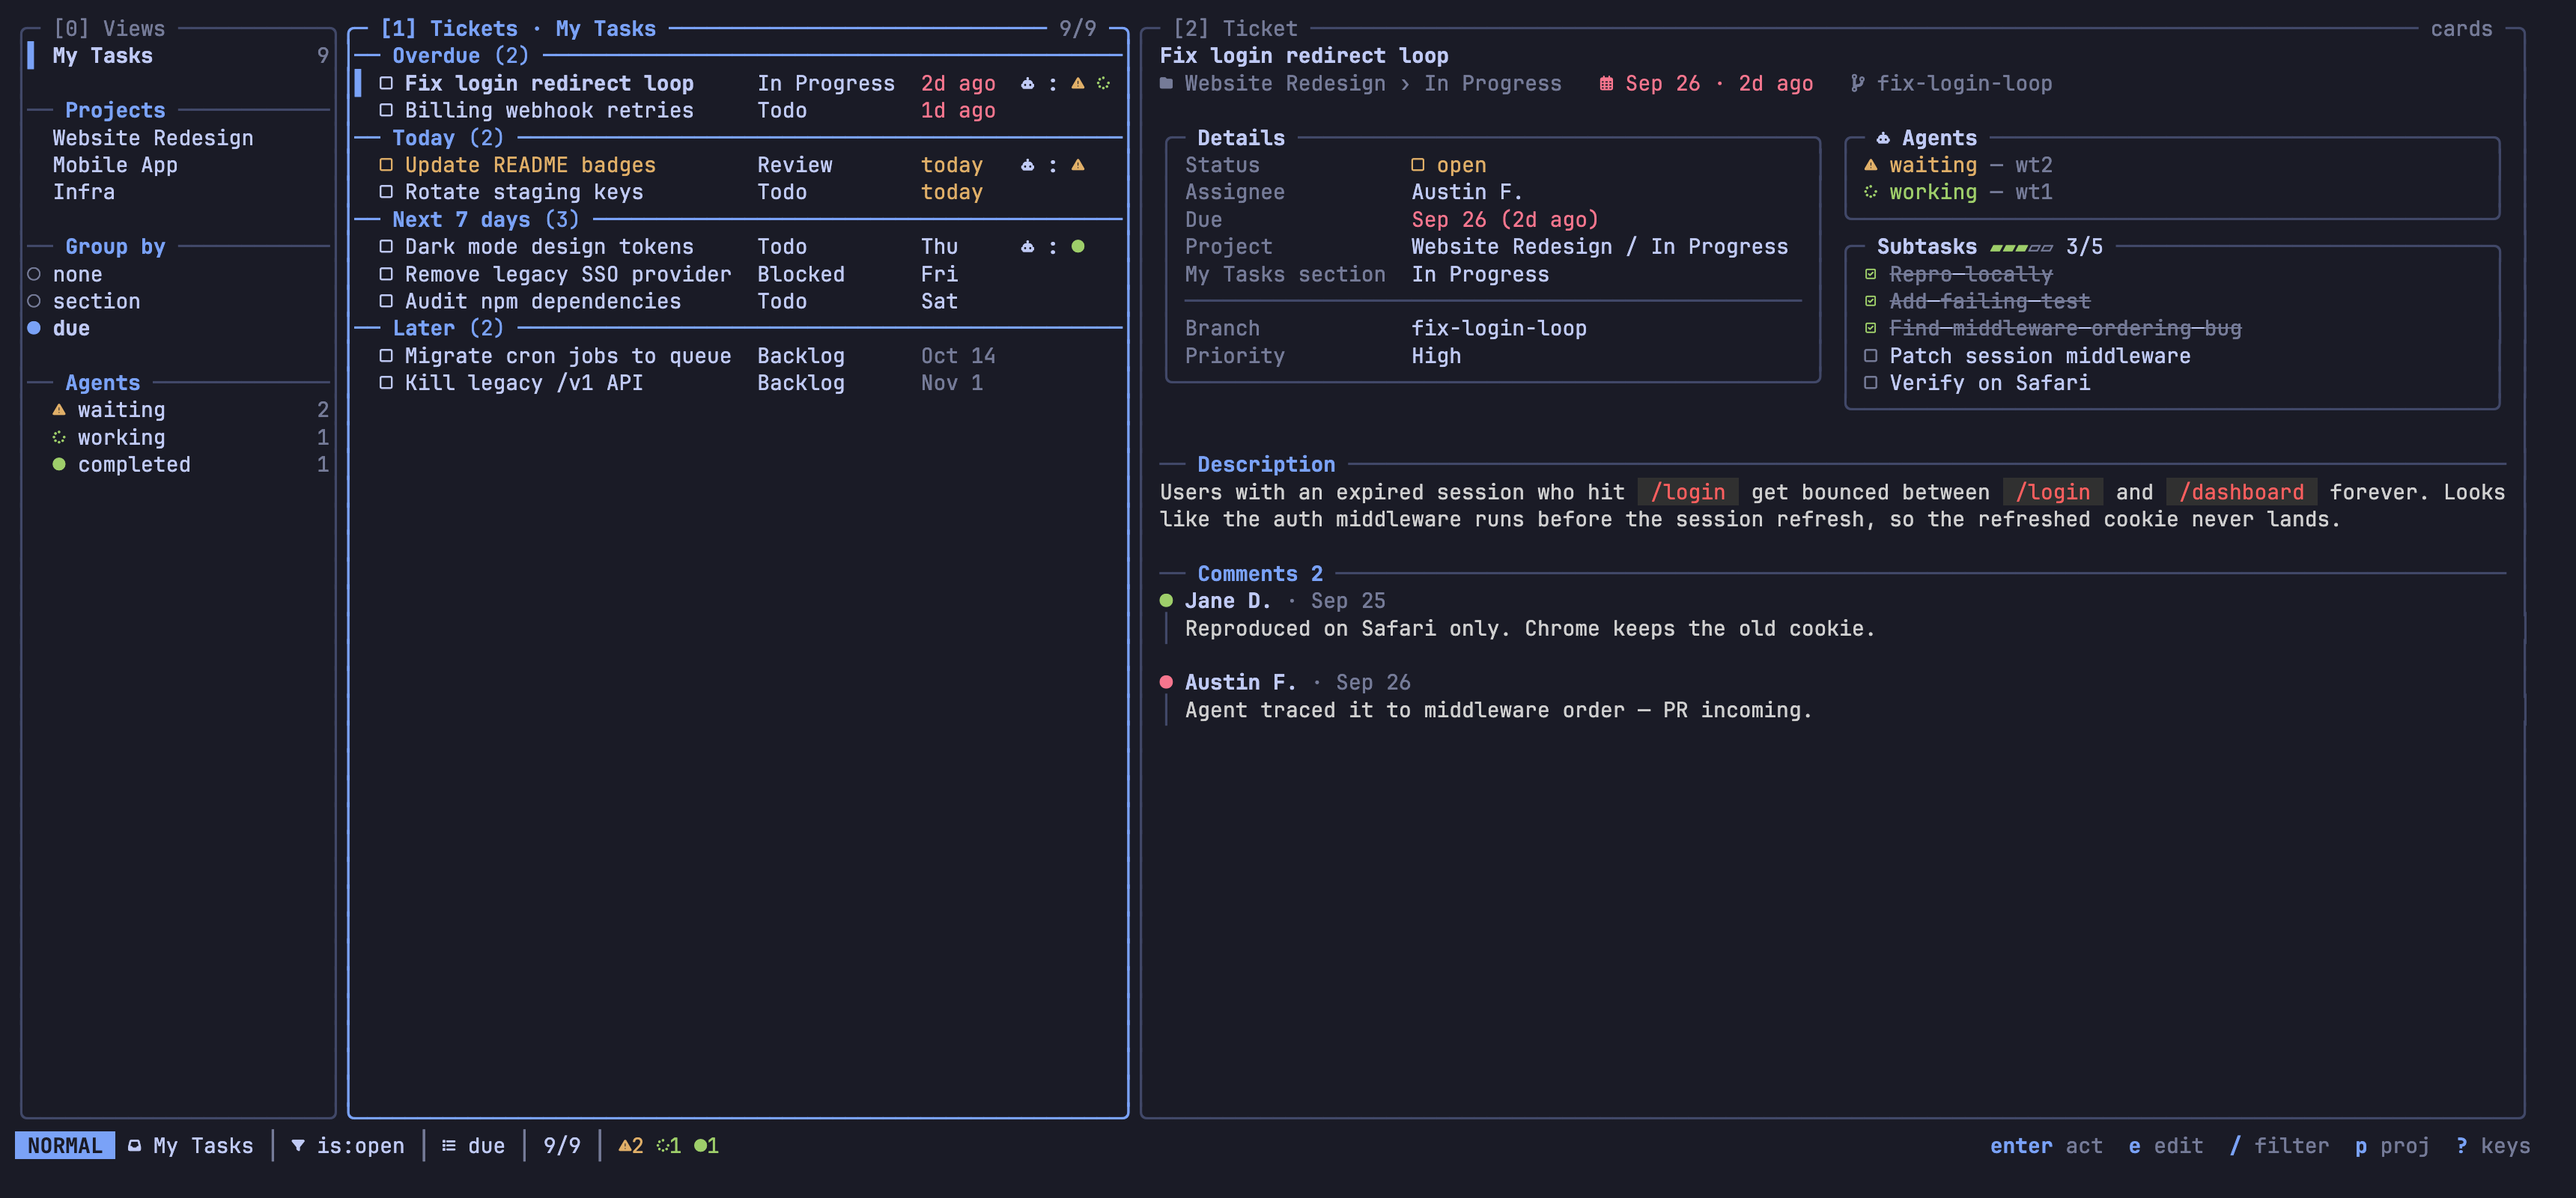
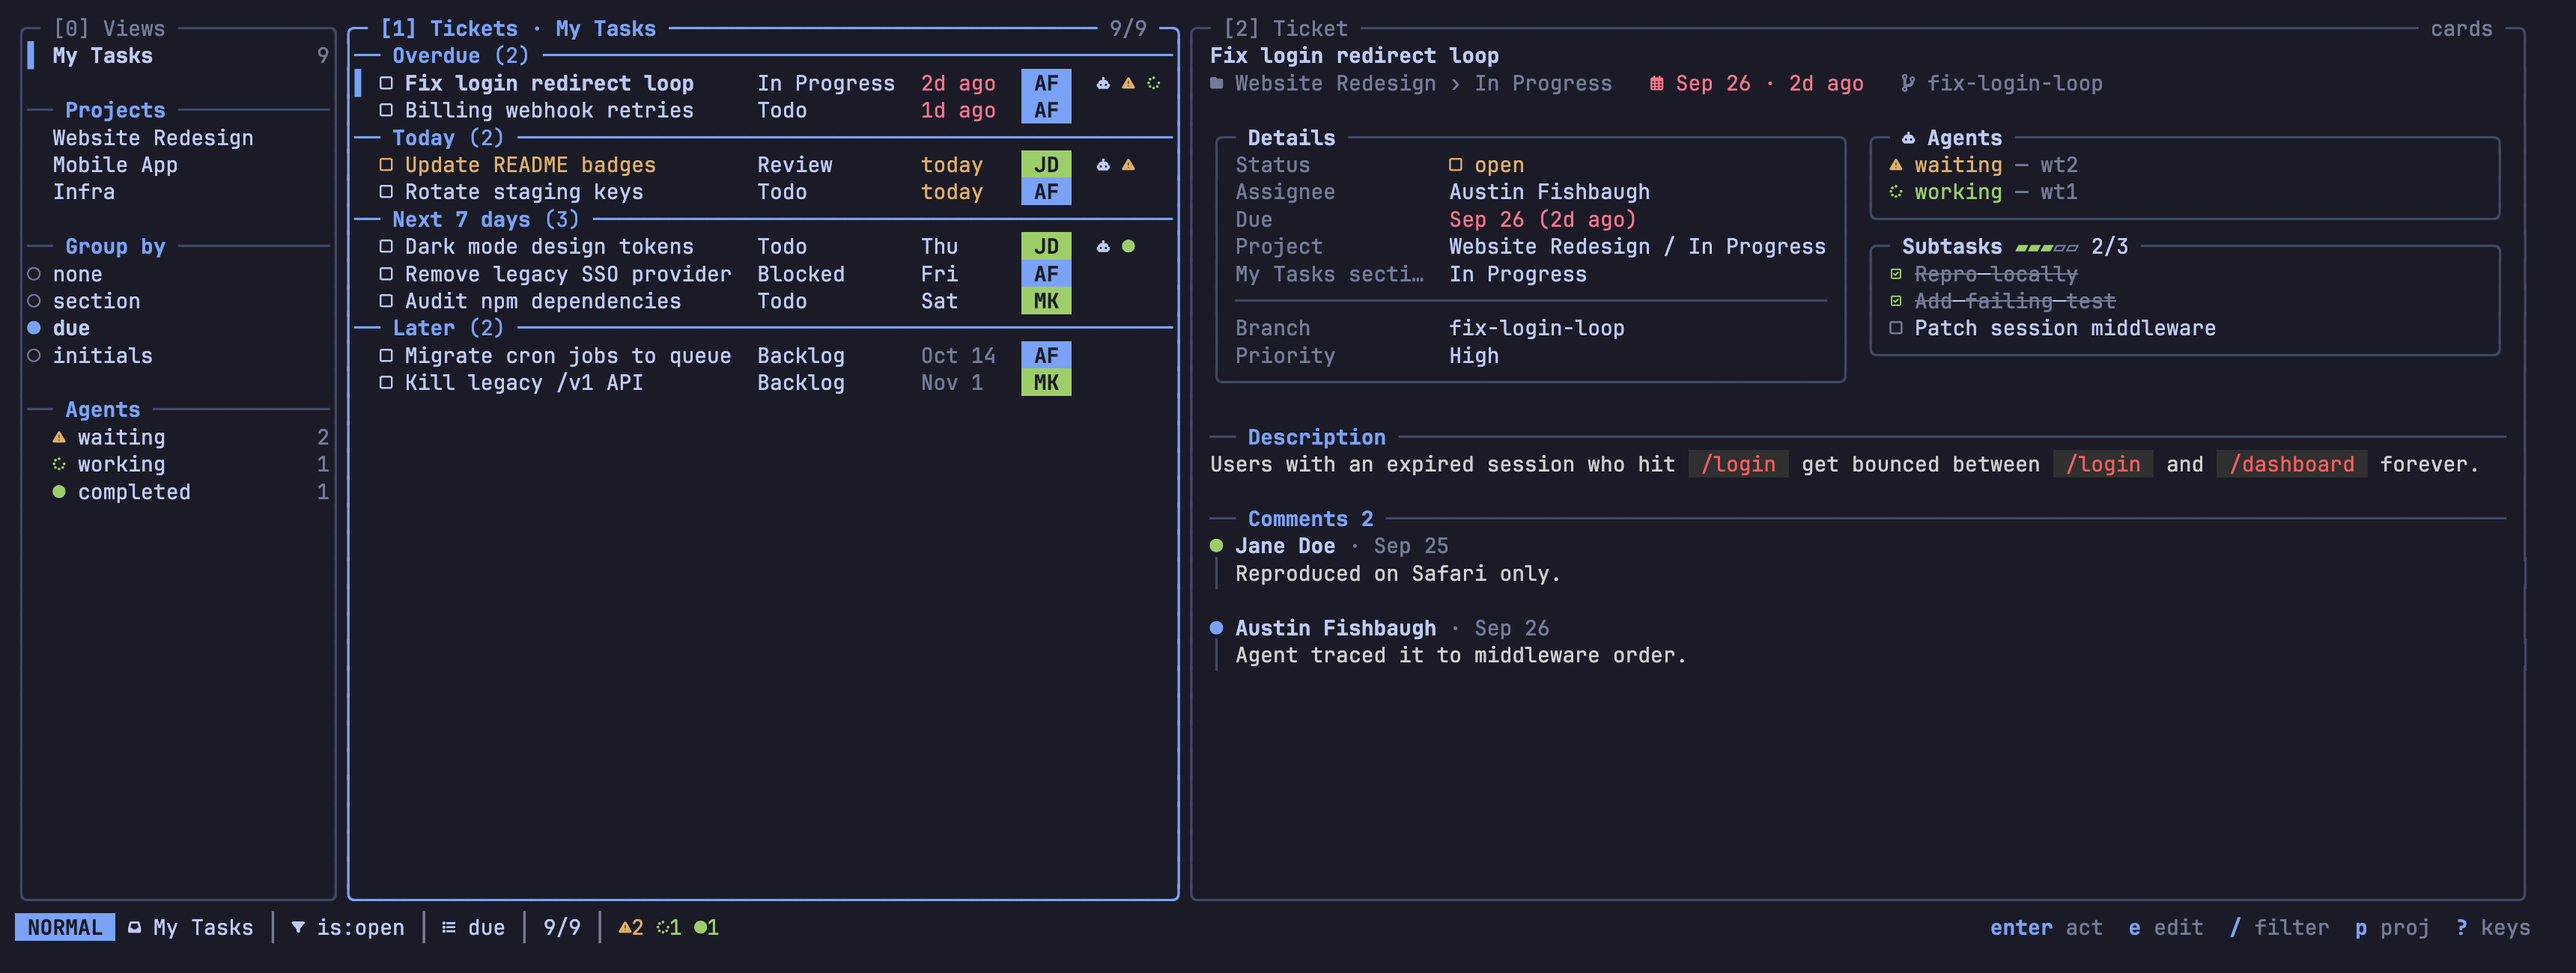
docs: refresh renders and deferred ideas
actual-wide.png now shows the initials column, actual-wide-light.png the
light theme. The deferred ideas note the key table and the light check.

Changed region(s): [[0.0, 0.0, 0.9953, 0.9846], [0.0, 0.2462, 0.0622, 0.5231]]

diff --git a/docs/deferred-ideas.md b/docs/deferred-ideas.md
@@ -6,27 +6,27 @@ own design pass. They are recorded here so they can be picked up later.
 
 ## Configurable key bindings
 
-**Now:** `Model.handleKey` in `internal/tui/model.go` hardcodes every
-key. The `?` help renders from the `bindings` table in
-`internal/tui/statusline.go`, but the statusline's hints (`Model.mode`) and
-`handleKey` are separate, so a new or changed binding must be updated in
-all three.
+**Now:** `keyBindings` in `internal/tui/keys.go` is the one table of list and
+reader keys: `handleKey` dispatches from it, and the `?` help and the NORMAL
+mode hints render from it. Modals, the filter, the views panel, and the
+cards view's selected row still handle their own keys first, and the hints
+for those modes are written out in `Model.mode`.
 
-**Idea:** Grow `bindings` into the one table `handleKey` dispatches from, with
-`bubbles/key` if it helps. The same table could later accept overrides from
-the config, for example a `[keys]` table.
+**Idea:** Let a `[keys]` config table rebind entries of `keyBindings`.
 
 **Watch out for:** Adding config keys is a public contract (see `AGENTS.md`).
 Action keys are only read inside the action menu, so they do not collide with
-list keys today. An override system must keep that true.
+list keys today. An override system must keep that true, and
+`TestKeyBindingsAreUniqueAndDocumented` should check the merged table.
 
 ## Theme-aware colors
 
 **Now:** `theme = "light"` only changes the glamour Markdown style. The TUI's
 own colors are fixed ANSI numbers, all defined at the top of `styles.go`
 (`borderColor`, `okStyle`, `warnStyle`, `errorStyle`). ANSI numbers follow the
-terminal's color scheme, but faint text and color 8 borders can be hard to see
-on some light schemes.
+terminal's color scheme; a render with Tokyo Night Day
+(`docs/mocks/actual-wide-light.png`) reads well, but faint text and color 8
+borders depend on how pale the scheme draws them.
 
 **Idea:** Add a small palette struct with a dark and a light variant, chosen
 by `theme`, and build the styles from it.
